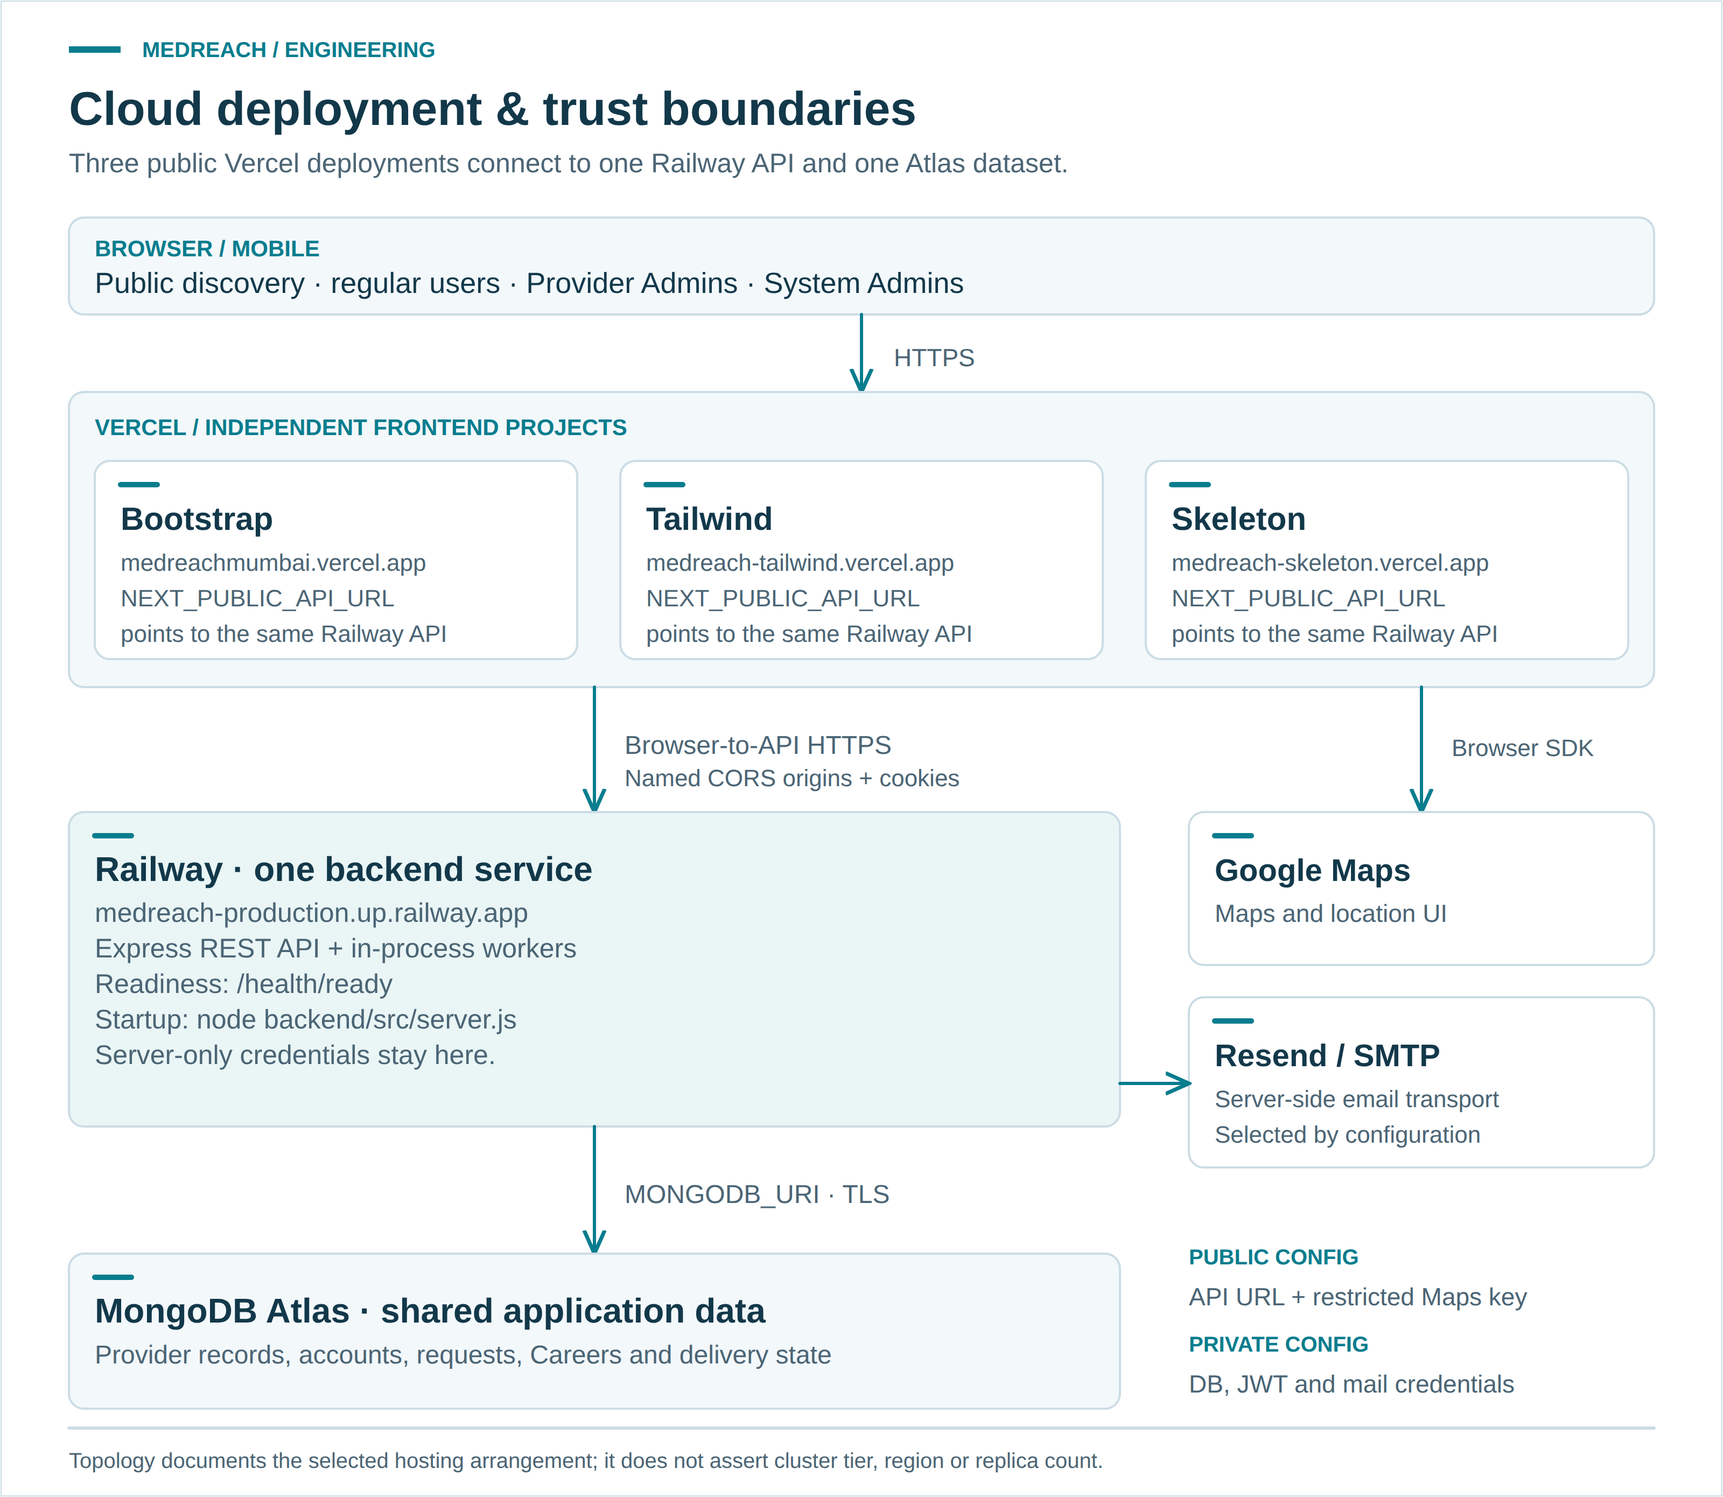
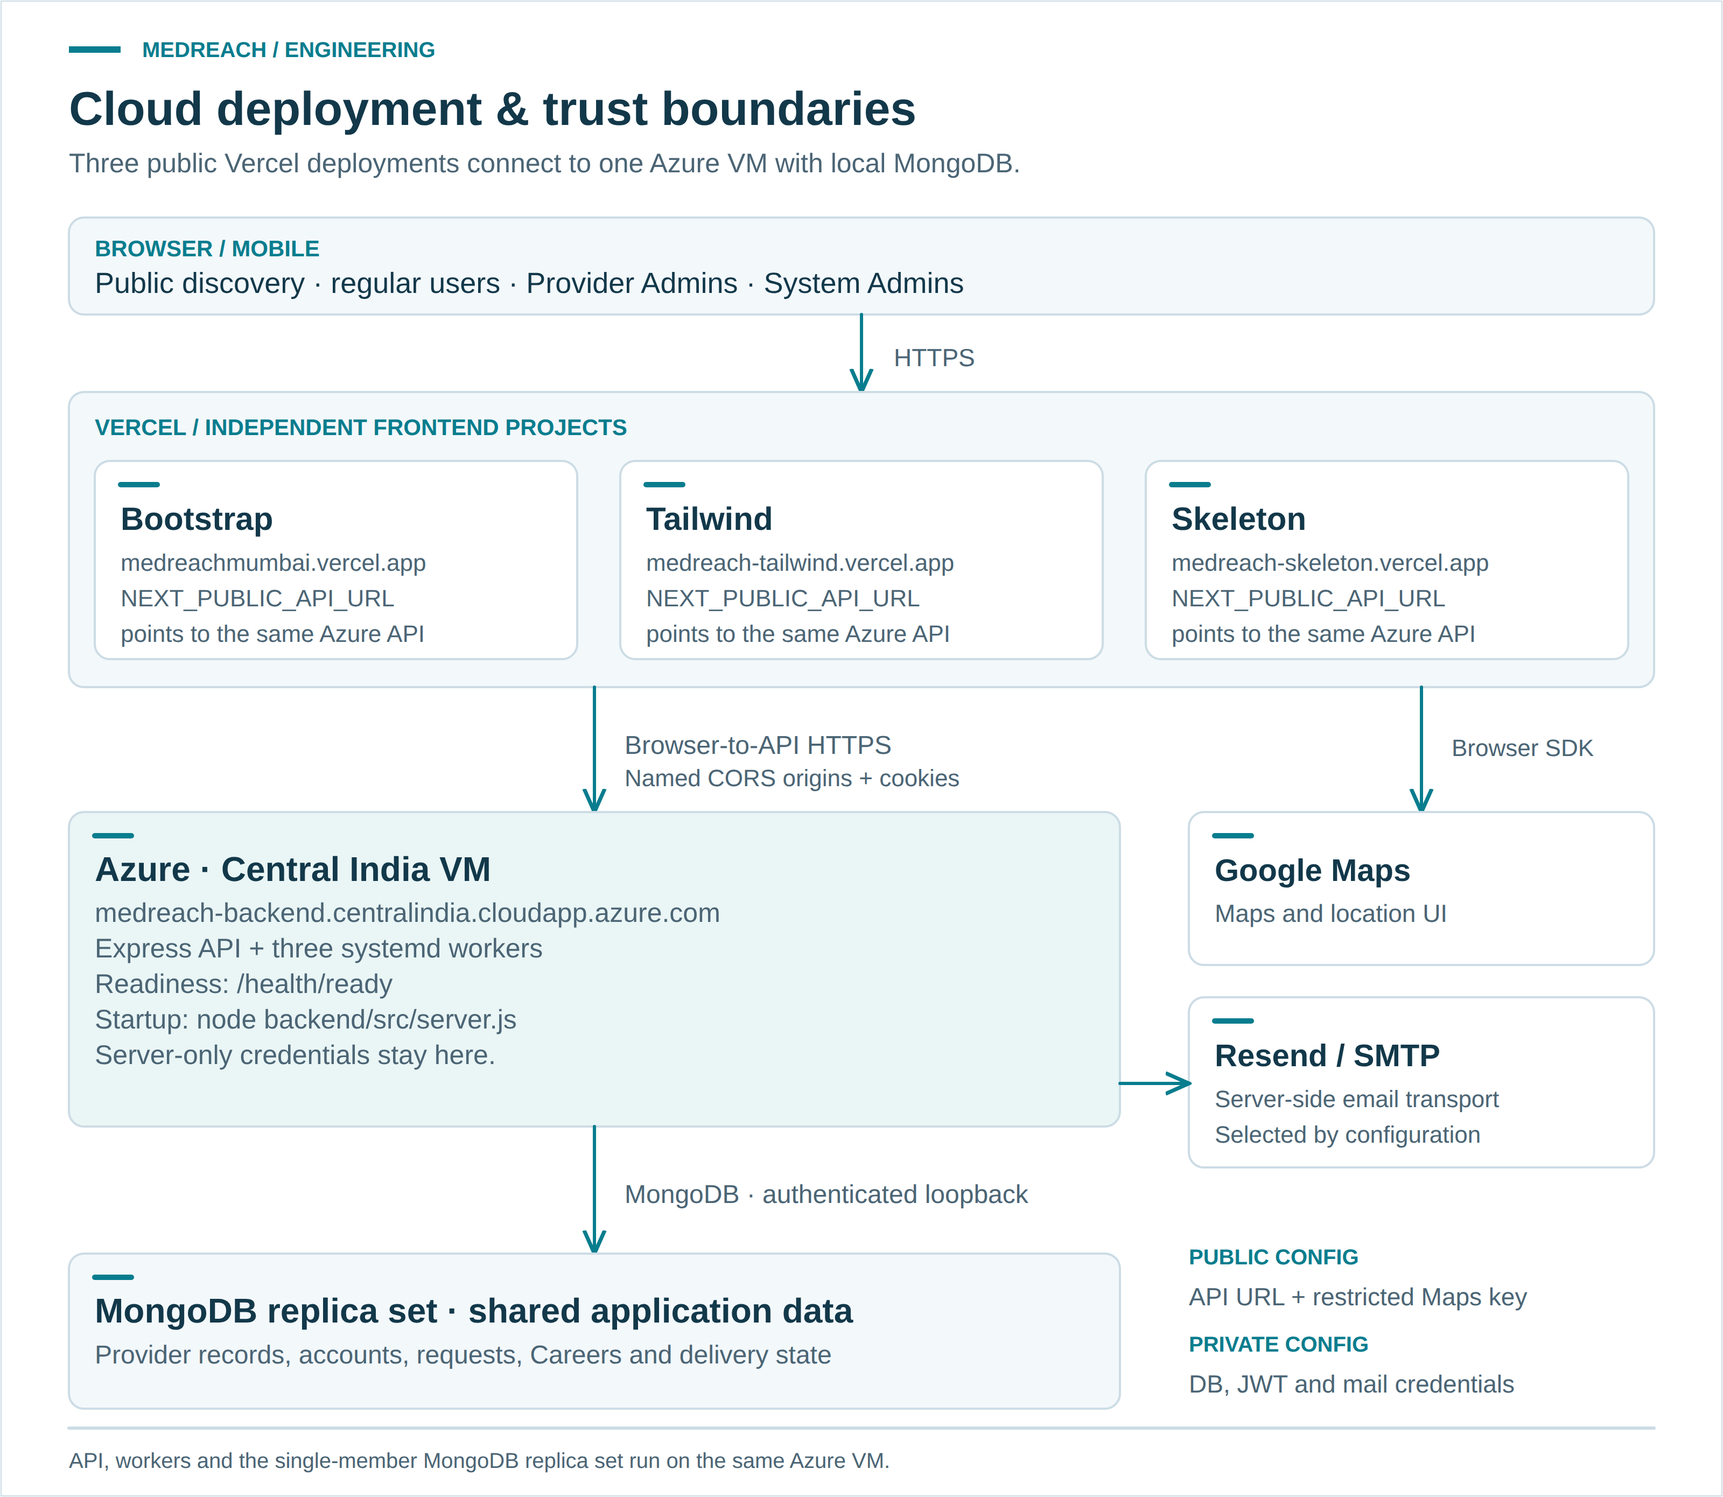
chore(deploy): retire Railway and document the Azure backend
Use Azure for the active deployment templates and hosted evaluation defaults. Update Mongoose to clear the high-severity dependency gate.

diff --git a/README.md b/README.md
@@ -129,7 +129,7 @@ receive a copy of that private database from Git.
 
 ## Architecture
 
-**Three independent frontends. One shared backend. One Atlas dataset.**
+**Three independent frontends. One shared backend. One MongoDB dataset.**
 
 The diagrams below show different views of the same application: code and
 runtime boundaries, cloud deployment, and the data relationships behind care
@@ -137,18 +137,18 @@ coordination. Open any figure for its full-size SVG.
 
 ### System topology
 
-[![MedReach system topology: three Next.js frontends, shared client contracts, one Express API with in-process workers, MongoDB and configured email transport](docs/diagrams/system-architecture.png)](docs/diagrams/system-architecture.svg)
+[![MedReach system topology: three Next.js frontends, shared client contracts, one Express API with separate workers, MongoDB and configured email transport](docs/diagrams/system-architecture.png)](docs/diagrams/system-architecture.svg)
 
 Each frontend keeps its own presentation layer. The API owns authentication,
 organisation-scoped permissions and healthcare workflows. Request expiry,
-notification recovery and email delivery run inside that backend process.
+notification recovery and email delivery run as separate worker processes.
 
 ### Cloud deployment
 
-[![MedReach cloud deployment: three Vercel projects call one Railway API connected to MongoDB Atlas; browser Maps and backend mail have separate boundaries](docs/diagrams/deployment-architecture.png)](docs/diagrams/deployment-architecture.svg)
+[![MedReach cloud deployment: three Vercel projects call one Azure VM running the API and MongoDB; browser Maps and backend mail have separate boundaries](docs/diagrams/deployment-architecture.png)](docs/diagrams/deployment-architecture.svg)
 
-Vercel serves the frontends; browsers call the Railway API over HTTPS. The API
-connects to Atlas and the configured Resend/SMTP transport. Database, JWT and
+Vercel serves the frontends; browsers call the Azure API over HTTPS. The API
+connects to MongoDB on the VM and the configured Resend/SMTP transport. Database, JWT and
 mail credentials stay on the backend. Google Maps is a browser integration.
 
 ### Database model
@@ -235,7 +235,7 @@ Start with the [documentation hub](docs/README.md), organised by task.
 | --- | --- | --- |
 | `EADDRINUSE: address already in use :::3000` (or `4000`) | A prior process is holding the frontend or backend port. | Stop the previous launcher with `Ctrl+C`. Inspect the port owner before stopping another process; use one frontend if that is all you need. |
 | `MongooseServerSelectionError: connect ECONNREFUSED 127.0.0.1:27017` | Local MongoDB daemon is not running. | Check the configured MongoDB service and [local setup](LOCAL_MONGODB_SETUP.md). Preserve the existing data directory; starting a different empty database will not recover the records. |
-| `/api/auth/me` returns `401` | Expected for a signed-out visitor; a signed-in failure can involve expired sessions or blocked cookies. | For a failed login, check the [deployment cookie/CORS guidance](docs/deployment.md). Vercel/Railway cross-site cookies require different settings from localhost. |
+| `/api/auth/me` returns `401` | Expected for a signed-out visitor; a signed-in failure can involve expired sessions or blocked cookies. | For a failed login, check the [deployment cookie/CORS guidance](docs/deployment.md). Vercel/Azure cross-site cookies require different settings from localhost. |
 | Stale styles or missing client modules after branch switch | Next.js build cache discrepancy. | Stop the affected frontend, check its build configuration, and rebuild that variant. See the [frontend guide](variants/README.md). |
 | Map fails to load or shows grey container | Missing or restricted Google Maps API key. | MedReach provides an honest list fallback without an active key. Supply `NEXT_PUBLIC_GOOGLE_MAPS_API_KEY` in `.env.local` if map rendering is required. |
 

diff --git a/docs/diagrams/README.md b/docs/diagrams/README.md
@@ -9,7 +9,7 @@ a thumbnail grid. PNG previews work directly in GitHub; SVGs open at any zoom.
 | View | What it answers | Open separately |
 | --- | --- | --- |
 | [System topology](#system-topology) | What is shared, and where does code run? | [SVG](system-architecture.svg) · [PNG](system-architecture.png) |
-| [Cloud deployment](#cloud-deployment) | How do Vercel, Railway, Atlas and external services connect? | [SVG](deployment-architecture.svg) · [PNG](deployment-architecture.png) |
+| [Cloud deployment](#cloud-deployment) | How do Vercel, Azure, MongoDB and external services connect? | [SVG](deployment-architecture.svg) · [PNG](deployment-architecture.png) |
 | [Care and Careers data](#care-and-careers-data) | Which organisations receive requests and applications? | [SVG](database-er.svg) · [PNG](database-er.png) |
 | [Accounts and provider scope](#accounts-and-provider-scope) | How do identity, assignments and onboarding relate? | [SVG](database-access-er.svg) · [PNG](database-access-er.png) |
 
@@ -17,12 +17,12 @@ a thumbnail grid. PNG previews work directly in GitHub; SVGs open at any zoom.
 
 <a id="1-system-architecture"></a>
 
-[![System topology: three independent Next.js frontends share one Express API, in-process workers and one MongoDB dataset](system-architecture.png)](system-architecture.svg)
+[![System topology: three independent Next.js frontends share one Express API, separate workers and one MongoDB dataset](system-architecture.png)](system-architecture.svg)
 
 The shared client is **build-time application code**, not a fourth hosted
 frontend or a gateway service. Bootstrap uses its local `_core` mirror;
 Tailwind and Skeleton resolve the workspace package. All three call the same
-API. Its workers run inside the API process.
+API. Its workers run as separate systemd services.
 
 Evidence: [`app.js`](../../backend/src/app.js),
 [`server.js`](../../backend/src/server.js),
@@ -33,18 +33,17 @@ Evidence: [`app.js`](../../backend/src/app.js),
 
 <a id="6-deployment-architecture"></a>
 
-[![Cloud deployment: three Vercel projects, one Railway backend and one Atlas dataset, with browser Maps access and server-side email](deployment-architecture.png)](deployment-architecture.svg)
+[![Cloud deployment: three Vercel projects, one Azure VM with the API and MongoDB, with browser Maps access and server-side email](deployment-architecture.png)](deployment-architecture.svg)
 
-The frontend calls the Railway API from the browser; the diagram does not imply
+The frontend calls the Azure API from the browser; the diagram does not imply
 an additional Vercel API proxy. MongoDB and mail credentials belong on the
 backend. The browser receives the public API URL and its restricted Maps key.
 Resend and SMTP are alternative configured mail transports.
 
 This documents the selected hosting arrangement and public URLs. It does not
-claim to inspect Atlas regions, cluster tiers, replica counts or private
-production configuration.
+includes the Central India VM and its local single-member MongoDB replica set.
 
-Evidence: [`backend/railway.json`](../../backend/railway.json),
+Evidence: [`medreach@.service`](../../backend/operations/azure/medreach@.service),
 [`emailService.js`](../../backend/src/services/emailService.js),
 [deployment guide](../deployment.md).
 [Semantic Mermaid companion](deployment-architecture.mmd).

diff --git a/docs/deployment.md b/docs/deployment.md
@@ -2,7 +2,7 @@
 
 [Documentation](README.md) · [Project overview](../README.md)
 
-Selected stack: Vercel frontends → Railway Express API → MongoDB Atlas.
+Selected stack: Vercel frontends → Azure Express API → MongoDB on the Azure VM.
 This guide describes manual deployment; it does not claim a deployment was
 performed or verified.
 
@@ -33,17 +33,18 @@ Do not point cloud services at this local path.
   available and the map displays its fallback.
 - Rebuild when changing `NEXT_PUBLIC_*`; these values are embedded in JavaScript.
 
-## Railway: shared API
+## Azure: shared API
 
-Use the repository root and `/backend/railway.json`. The checked-in configuration
-starts `node backend/src/server.js`, uses `/health/ready`, one replica and a
-35-second drain period. The process requires a persistent service to run expiry,
-notification recovery and email outbox workers.
+The active VM is `medreach-backend` in Central India. Caddy provides HTTPS
+at `https://medreach-backend.centralindia.cloudapp.azure.com`. systemd
+supervises Express and the notification, expiry and recovery worker processes.
+Follow the [VM runbook](../backend/operations/azure/README.md) for deployment and
+verification. Keep MongoDB and port 4000 private.
 
 | Variable | Purpose |
 | --- | --- |
 | `NODE_ENV=production` | Production validation/security |
-| `MONGODB_URI` | Atlas URI including the intended database name; takes precedence over `MONGO_URI` |
+| `MONGODB_URI` | Authenticated loopback replica-set URI including the intended database name; takes precedence over `MONGO_URI` |
 | `JWT_SECRET` | Unique random secret of at least 32 characters |
 | `PUBLIC_APP_URL` | Canonical frontend HTTPS origin for email links |
 | `CORS_ORIGINS` | Comma-separated exact approved frontend origins |
@@ -80,7 +81,7 @@ The host must permit outbound connections to the chosen SMTP service.
 
 ### Delivery semantics
 
-The normal server starts the persistent email outbox automatically. Only new
+The notification worker processes the persistent email outbox. Only new
 explicitly queued, replay-safe messages are picked up; historical delivery rows
 are not broadly replayed. Failed definitive attempts have bounded recovery.
 Ambiguous acceptance is marked uncertain and is not automatically resent.
@@ -89,7 +90,7 @@ Account links remain inline and non-replayable.
 Changing `JWT_SECRET` affects sessions, guest token recovery and encrypted
 email retry envelopes. Treat rotation as a separate migration/recovery decision.
 
-## Atlas and data safety
+## Data safety
 
 Use a restricted database user and appropriate network access rules.
 `DATABASE_URL` is not a MongoDB alias in this application.

diff --git a/backend/operations/azure/README.md b/backend/operations/azure/README.md
@@ -1,18 +1,21 @@
-# Oracle deployment
+# Azure deployment
 
-Prepared configuration. Live provisioning and restore remain pending Oracle
-account access, VM availability, database inventory and an API hostname.
+Production uses the Central India Ubuntu 24.04 VM `medreach-backend`
+(Standard B2als_v2, 2 vCPUs, 4 GiB RAM). All three Vercel frontends share
+[the HTTPS API](https://medreach-backend.centralindia.cloudapp.azure.com).
+Caddy proxies requests to Express. The API and each of the three workers run
+as separate systemd services. MongoDB runs as an authenticated, single-member
+replica set on the same VM and listens on loopback.
+
+The tested VM still runs a pinned revision from before this directory was
+renamed. Install the updated systemd template before restarting services after
+updating its checkout. After merging to main, the VM still needs its own
+reviewed software update. GitHub and Vercel deployments do not update the VM.
 
 ## VM and networking
 
-Create an Always Free eligible Ubuntu 24.04 A1 VM in the account's home region,
-preferably Mumbai when capacity permits. Select 2 OCPUs and 12 GB RAM within the
-published free allowance. Keep aggregate boot/data volumes within 200 GB.
-Confirm the console's price estimate and Always Free eligibility before creation.
-Oracle can reclaim idle instances. Keep encrypted backups outside this VM.
-
-Allow inbound TCP 80/443 and restrict SSH to the operator's IP in both OCI
-network rules and the host firewall. Keep ports 4000 and 27017 inaccessible
+Allow inbound TCP 80/443 and restrict SSH to the operator's IP in both Azure
+network security group and the host firewall. Keep ports 4000 and 27017 inaccessible
 from the internet. Point an owned API hostname to the VM's public IP.
 
 Install Git, a supported system-wide Node release >=22.19.0 at `/usr/bin/node`,
@@ -105,6 +108,6 @@ alone must not send users to a stale database.
 
 ## References
 
-- https://docs.oracle.com/en-us/iaas/Content/FreeTier/freetier_topic-Always_Free_Resources.htm
+- https://learn.microsoft.com/en-us/azure/virtual-machines/linux/quick-create-portal
 - https://www.mongodb.com/docs/manual/administration/production-notes/
 - https://www.mongodb.com/docs/manual/tutorial/deploy-replica-set-with-keyfile-access-control/

diff --git a/backend/operations/release/README.md b/backend/operations/release/README.md
@@ -4,18 +4,11 @@ These are reviewable deployment templates, not an installed or approved producti
 
 ## Code and environment
 
-Use one reviewed, pinned code revision for the API and all workers. Four Railway configuration templates share the repository/build:
-
-| Role | Template | Proposed replicas | Readiness |
-| --- | --- | ---: | --- |
-| API | `api.railway.json` | 2 | `/health/ready` |
-| Notification worker | `notification.railway.json` | 2 | persisted worker heartbeat, queue and incident checks |
-| Request expiry | `expiry.railway.json` | 1 | persisted worker heartbeat and expiry journal checks |
-| Recovery | `recovery.railway.json` | 1 | persisted worker heartbeat and recovery jobs |
-
-Replica counts are a staging proposal, not a cost approval or capacity commitment. Workers have no HTTP readiness server. Their supervision must monitor process status plus the API's protected worker/queue health; do not point a worker at an API-only HTTP health URL.
-
-Read-only Railway inspection on 27 October 2026 showed one API replica in `sfo`, started by `node backend/src/server.js`, with `/health/ready` configured. Atlas's region is still unverified. The supplied Railway link cannot establish the MongoDB region. Verify Atlas cluster region/tier and the API's actual connection waiting before choosing a shared target near users. Templates deliberately do not invent an approved region.
+Use one reviewed, pinned code revision for the API and all workers on the Azure VM.
+The [Azure runbook](../azure/README.md) describes the current deployment.
+The four systemd role instances share one service template and configuration.
+The API readiness endpoint is `/health/ready`. Use process status and persisted
+worker heartbeats for the worker roles.
 
 Provide secrets through the platform secret manager, never these files. Each API/worker needs its reviewed MongoDB, session and applicable notification-encryption configuration. Give the extraction provider key/model only to recovery workers when enabling that optional workflow. Public reads do not need an external AI call. Reserve key material needed to decrypt restored queued emails and backups in separately protected recovery custody; a new backup encryption key does not replace the email-envelope key.
 

diff --git a/backend/SECURITY_HARDENING.md b/backend/SECURITY_HARDENING.md
@@ -17,7 +17,7 @@ Development and production use MongoDB atomic counters shared by every API repli
 
 Login email validation runs before the account limiter; equivalent uppercase/lowercase addresses share a bucket. Nonexistent addresses receive the same budget and invalid-credential response. The authenticated credential budget is shared across password and MFA routes, so changing endpoint or IP cannot reset it.
 
-`TRUST_PROXY` defaults to false. Do not set unrestricted trust or accept a client-selected header as an IP. Verify the actual ingress boundary before changing proxy settings. On a hosted reverse proxy, the conservative default can group several clients under a gateway IP. Account limits remain independent of this limitation. See [Express proxy guidance](https://expressjs.com/en/guide/behind-proxies/) and [Railway networking specifications](https://docs.railway.com/networking/public-networking/specs-and-limits).
+`TRUST_PROXY` defaults to false. Do not set unrestricted trust or accept a client-selected header as an IP. Verify the actual ingress boundary before changing proxy settings. On a hosted reverse proxy, the conservative default can group several clients under a gateway IP. Account limits remain independent of this limitation. See [Express proxy guidance](https://expressjs.com/en/guide/behind-proxies/).
 
 ## Input and password handling
 

diff --git a/docs/README.md b/docs/README.md
@@ -14,7 +14,7 @@ operational instructions, dated verification and proposed research.
 | Understand the implementation | [Architecture and code map](architecture.md) · [Diagram Gallery](diagrams/README.md) |
 | Find an endpoint or permission boundary | [API reference](api.md), [security](security.md) |
 | Understand MongoDB records and relationships | [Database Schema & Dictionary](database-schema.md) · [Data model](data-model.md) · [Stored dataset](stored-data.md) |
-| Deploy the existing stack or configure email | [Vercel, Railway, Atlas and email](deployment.md) |
+| Deploy the existing stack or configure email | [Vercel, Azure, MongoDB and email](deployment.md) |
 | Run tests safely or inspect actual results | [Testing guide](testing.md) · [Release verification](release-qa.md) |
 | Understand speed improvements | [Performance evidence](latency-verification.md) |
 | Review the interface | [Current screenshots and capture method](screenshots/README.md) |

diff --git a/docs/architecture.md b/docs/architecture.md
@@ -16,7 +16,7 @@ organisation checks, database access and worker lifecycle.
 | View | Diagram and detail |
 | --- | --- |
 | Runtime components | [System topology](diagrams/README.md#system-topology) |
-| Hosting and trust boundaries | [Vercel → Railway → Atlas](diagrams/README.md#cloud-deployment) |
+| Hosting and trust boundaries | [Vercel → Azure VM → MongoDB](diagrams/README.md#cloud-deployment) |
 | Care and Careers references | [Core ER view](diagrams/README.md#care-and-careers-data) |
 | Identity and organisation ownership | [Account / provider-scope ER view](diagrams/README.md#accounts-and-provider-scope) |
 | Detailed workflows | [Roles, onboarding, notifications and authentication](diagrams/README.md#role-and-workflow-reference-views) |

diff --git a/evaluation/README.md b/evaluation/README.md
@@ -15,7 +15,7 @@ The hosted tools target:
 | Bootstrap | https://medreachmumbai.vercel.app |
 | Tailwind | https://medreach-tailwind.vercel.app |
 | Skeleton | https://medreach-skeleton.vercel.app |
-| Shared API | https://medreach-production.up.railway.app |
+| Shared API | https://medreach-backend.centralindia.cloudapp.azure.com |
 
 These tools do not connect to MongoDB, seed accounts, start local application
 servers, log in, submit healthcare requests or change deployment settings.
